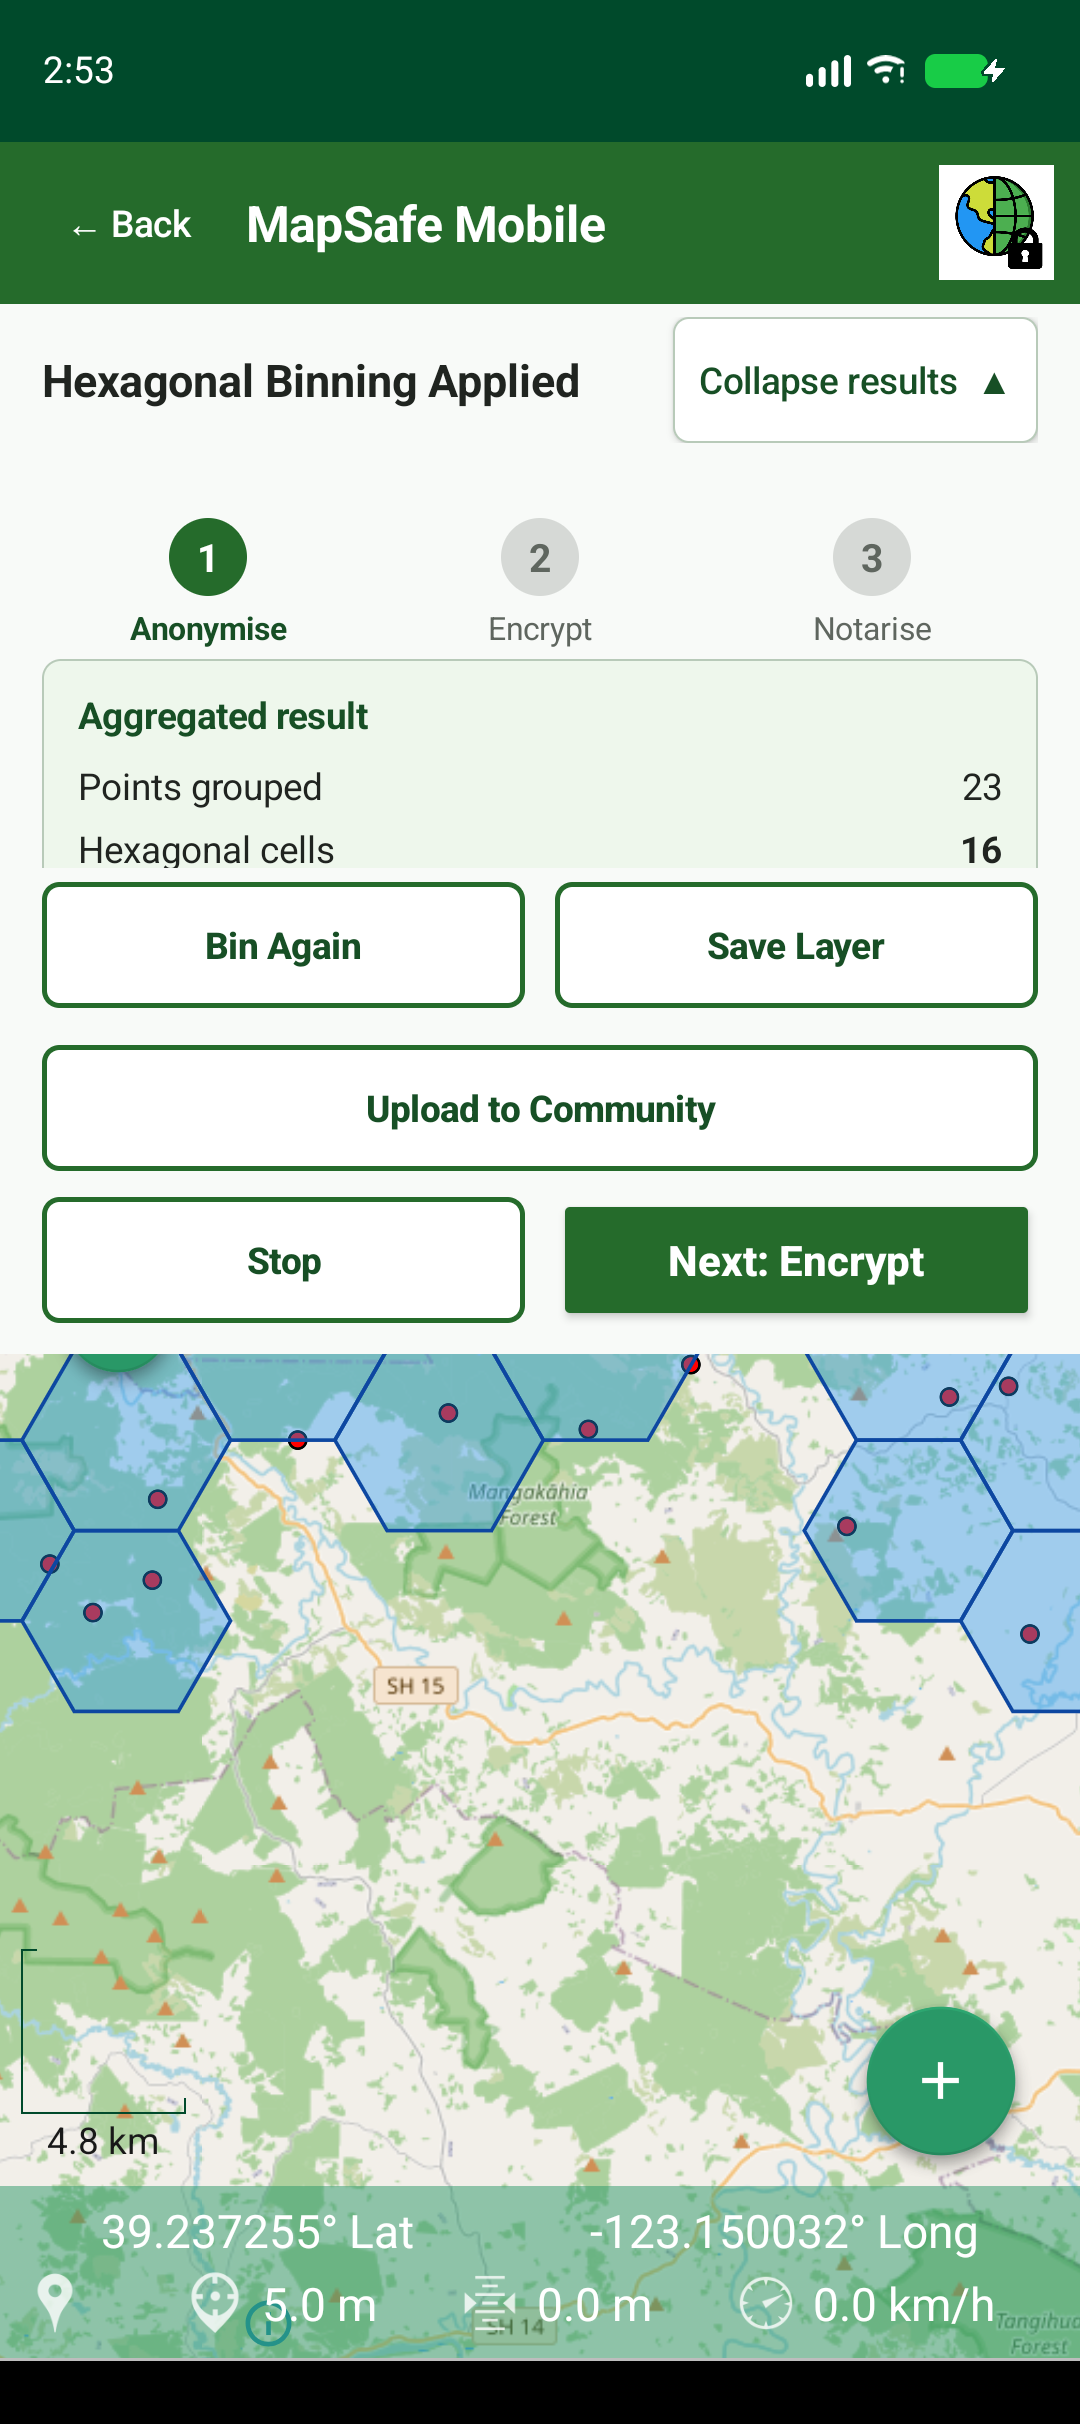
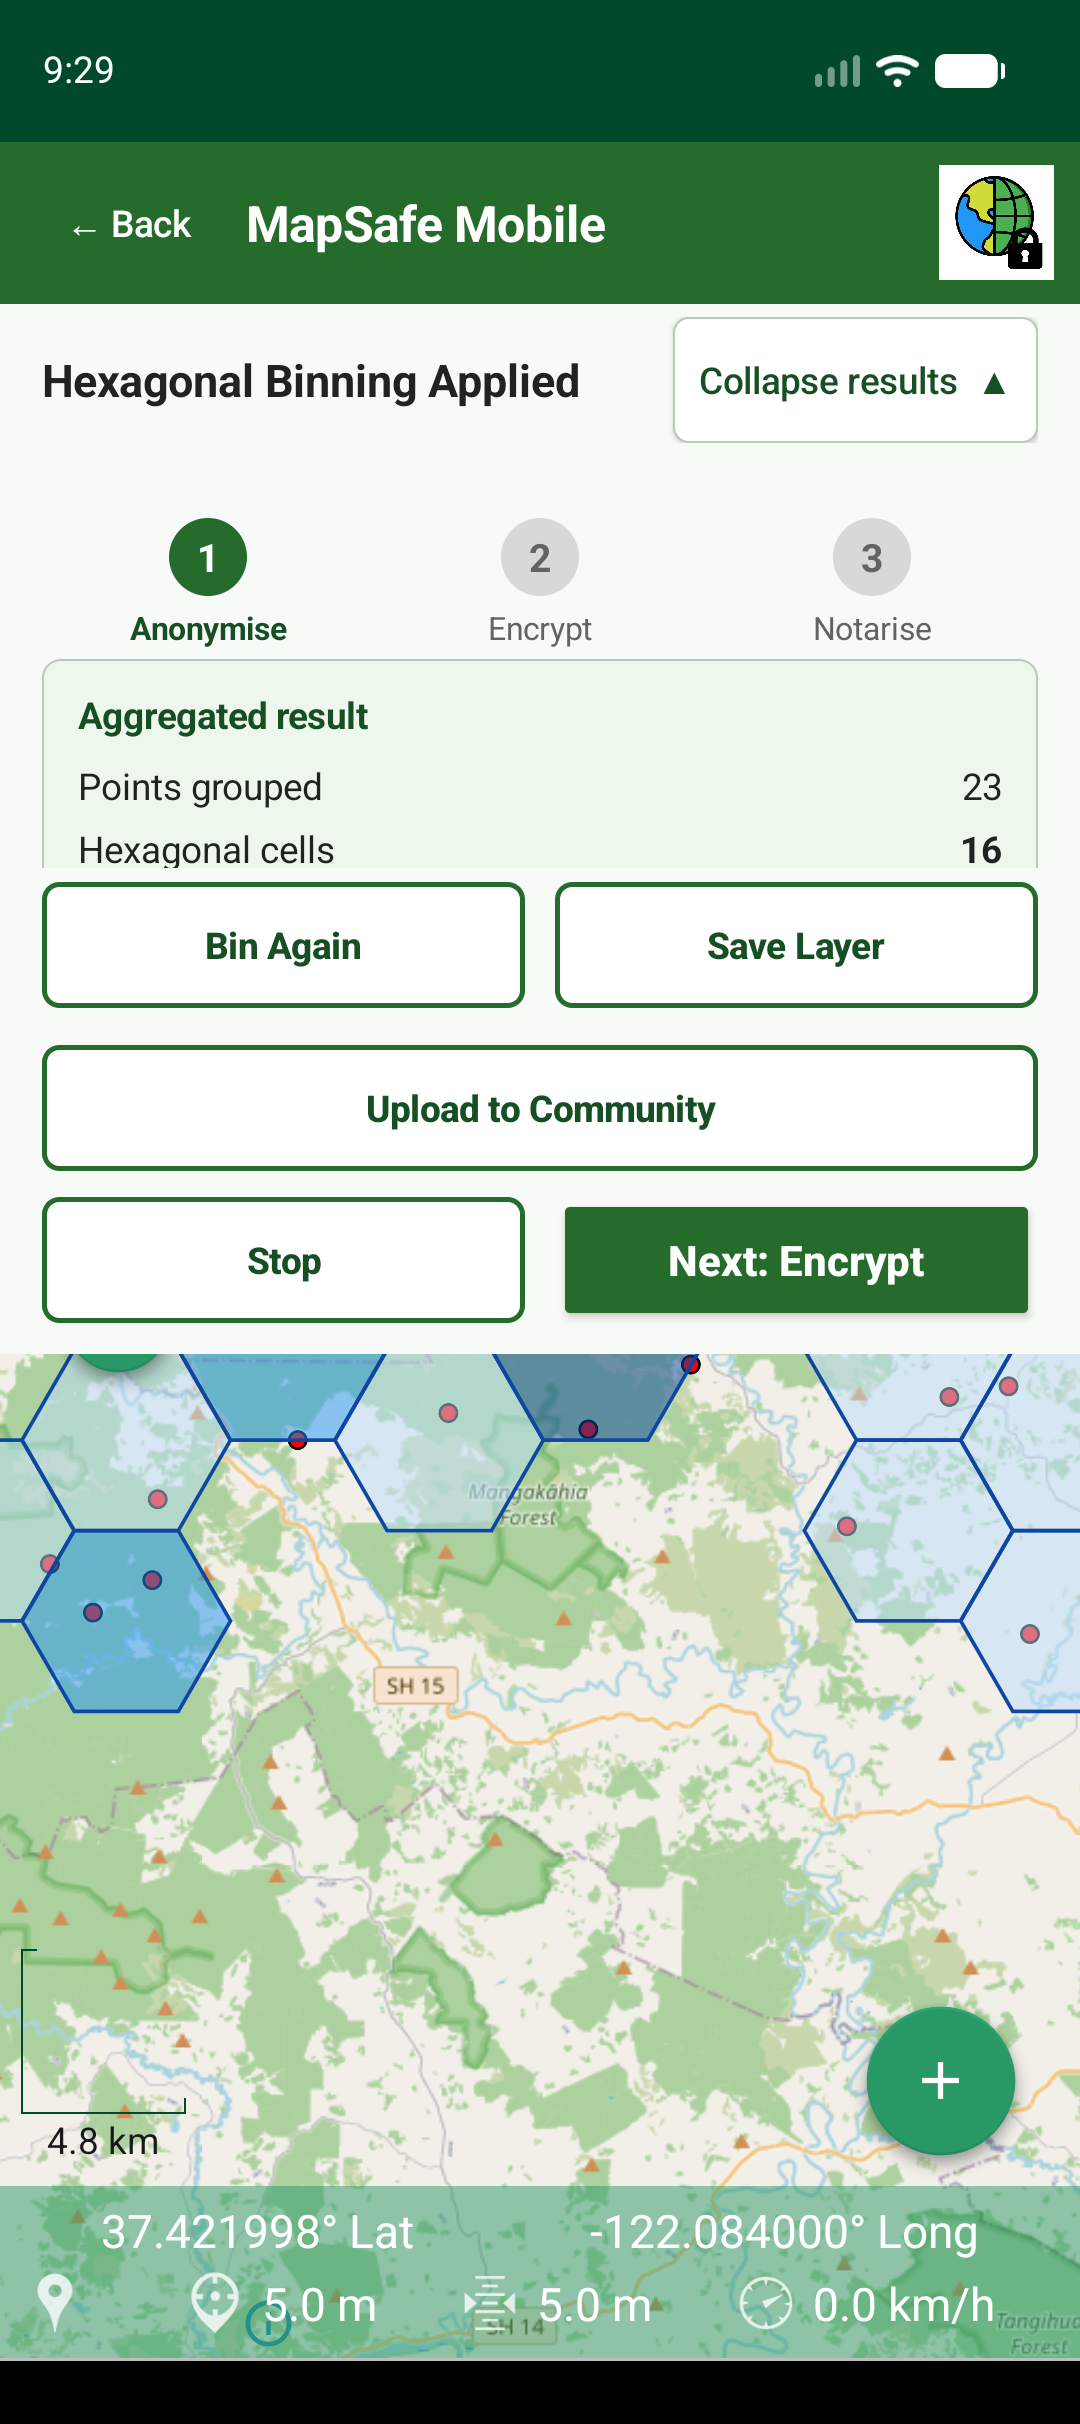
Update MapSafe guide screenshots

diff --git a/MapSafeMobile/js/main.js b/MapSafeMobile/js/main.js
@@ -64,6 +64,10 @@ const galleries = {
     ["web/nextgis-community-encrypted-packages.png", "Encrypted package resources."],
     ["web/nextgis-community-encrypted-package-records.png", "Encrypted package records and metadata."]
   ],
+  "web-manuscript": [
+    ["web/nextgis-community-public-keys.png", "NextGIS Web Public Keys resource group."],
+    ["web/nextgis-community-encrypted-packages.png", "NextGIS Web Encrypted Packages resource group."]
+  ],
   security: [
     ["mobile/ms2026-north-whangarei-20260909-02-security-account-community.png", "Account and community selection."],
     ["mobile/ms2026-north-whangarei-20260909-03-security-identity-folder-network.png", "Identity, folder and network settings."],
@@ -72,7 +76,7 @@ const galleries = {
 };
 
 const allMobile = [
-  "01-workflow-chooser","02-security-account-community","03-security-identity-folder-network","04-blockchain-network-profile","05-blockchain-contract-validation","06-access-community-local","07-verification-file-and-blockchain","08-safeguard-features","09-anonymise-options","10-halo-masking-configuration","11-halo-masking-applied-expanded","12-halo-masking-applied-collapsed","13-halo-masking-saved","14-hexagonal-binning-configuration","15-hexagonal-binning-applied-expanded","16-hexagonal-binning-applied-collapsed","17-hexagonal-binning-saved","18-identity-creation","19-identity-created","20-encrypt-protect","21-recipient-selection","22-encryption-success","23-notarisation-hash-network","24-decrypt-and-access","25-import-decrypted-layer","26-decryption-success","27-decrypted-dataset-map","28-original-sample-dataset-unobstructed","29-original-and-halo-masked-unobstructed","30-community-upload-selection","31-community-packages"
+  "01-workflow-chooser","02-security-account-community","03-security-identity-folder-network","04-blockchain-network-profile","05-blockchain-contract-validation","06-access-community-local","07-verification-file-and-blockchain","08-safeguard-features","09-anonymise-options","10-halo-masking-configuration","11-halo-masking-applied-expanded","12-halo-masking-applied-collapsed","13-halo-masking-saved","18-identity-creation","19-identity-created","20-encrypt-protect","21-recipient-selection","22-encryption-success","23-notarisation-hash-network","24-decrypt-and-access","25-import-decrypted-layer","26-decryption-success","27-decrypted-dataset-map","28-original-sample-dataset-unobstructed","29-original-and-halo-masked-unobstructed","30-community-upload-selection","31-community-packages"
 ].map((key) => [`mobile/ms2026-north-whangarei-20260909-${key}.png`, key.replaceAll("-", " ")]);
 const archiveCandidates = [...allMobile, ...Object.values(galleries).flat()];
 const seenArchive = new Set();

diff --git a/MapSafeMobile/safeguard.html b/MapSafeMobile/safeguard.html
@@ -67,6 +67,11 @@
       <p>After masking or encryption, the owner can choose an artefact for the authorised NextGIS community. Public keys, anonymised layers, and encrypted packages are separate resource types. An unencrypted original is not offered as a community upload. NextGIS Web resource ACLs control who can discover or download the item, while OpenPGP recipient selection controls who can decrypt a protected package.</p>
       <div class="notice"><strong>Keep the controls distinct:</strong> community membership does not automatically grant the ability to read every resource, and a user who can download an encrypted package still needs a matching local private key.</div>
       <div class="gallery" data-gallery="community"></div>
+      <div class="subsection" id="nextgis-web">
+        <h3>NextGIS Web administration</h3>
+        <p>The browser-based NextGIS Web interface prepares the community resource groups used by MapSafe Mobile. Public keys and encrypted packages are kept in separate groups, while Web GIS permissions control which accounts can discover each resource.</p>
+        <div class="gallery" data-gallery="web-manuscript"></div>
+      </div>
     </section>
 
     <section id="notarise">
@@ -93,6 +98,6 @@
     <footer><span>MapSafe Mobile</span><span><a href="index.html">Home</a> · <a href="access.html">Access workflow</a></span></footer>
   </main>
   <div class="lightbox" role="dialog" aria-modal="true" aria-label="Expanded screenshot" hidden><button class="lightbox-close" aria-label="Close">×</button><img alt=""></div>
-  <script src="js/main.js?v=5"></script>
+  <script src="js/main.js?v=6"></script>
 </body>
 </html>

diff --git a/MapSafeMobile/access.html b/MapSafeMobile/access.html
@@ -75,6 +75,6 @@
     <footer><span>MapSafe Mobile</span><span><a href="index.html">Home</a> · <a href="safeguard.html">Safeguard workflow</a></span></footer>
   </main>
   <div class="lightbox" role="dialog" aria-modal="true" aria-label="Expanded screenshot" hidden><button class="lightbox-close" aria-label="Close">×</button><img alt=""></div>
-  <script src="js/main.js?v=5"></script>
+  <script src="js/main.js?v=6"></script>
 </body>
 </html>

diff --git a/MapSafeMobile/index.html b/MapSafeMobile/index.html
@@ -91,6 +91,6 @@
     <footer><span>MapSafe Mobile</span><span>NextGIS Mobile geoprivacy guide</span></footer>
   </main>
   <div class="lightbox" role="dialog" aria-modal="true" aria-label="Expanded screenshot" hidden><button class="lightbox-close" aria-label="Close">×</button><img alt=""></div>
-  <script src="js/main.js?v=5"></script>
+  <script src="js/main.js?v=6"></script>
 </body>
 </html>
